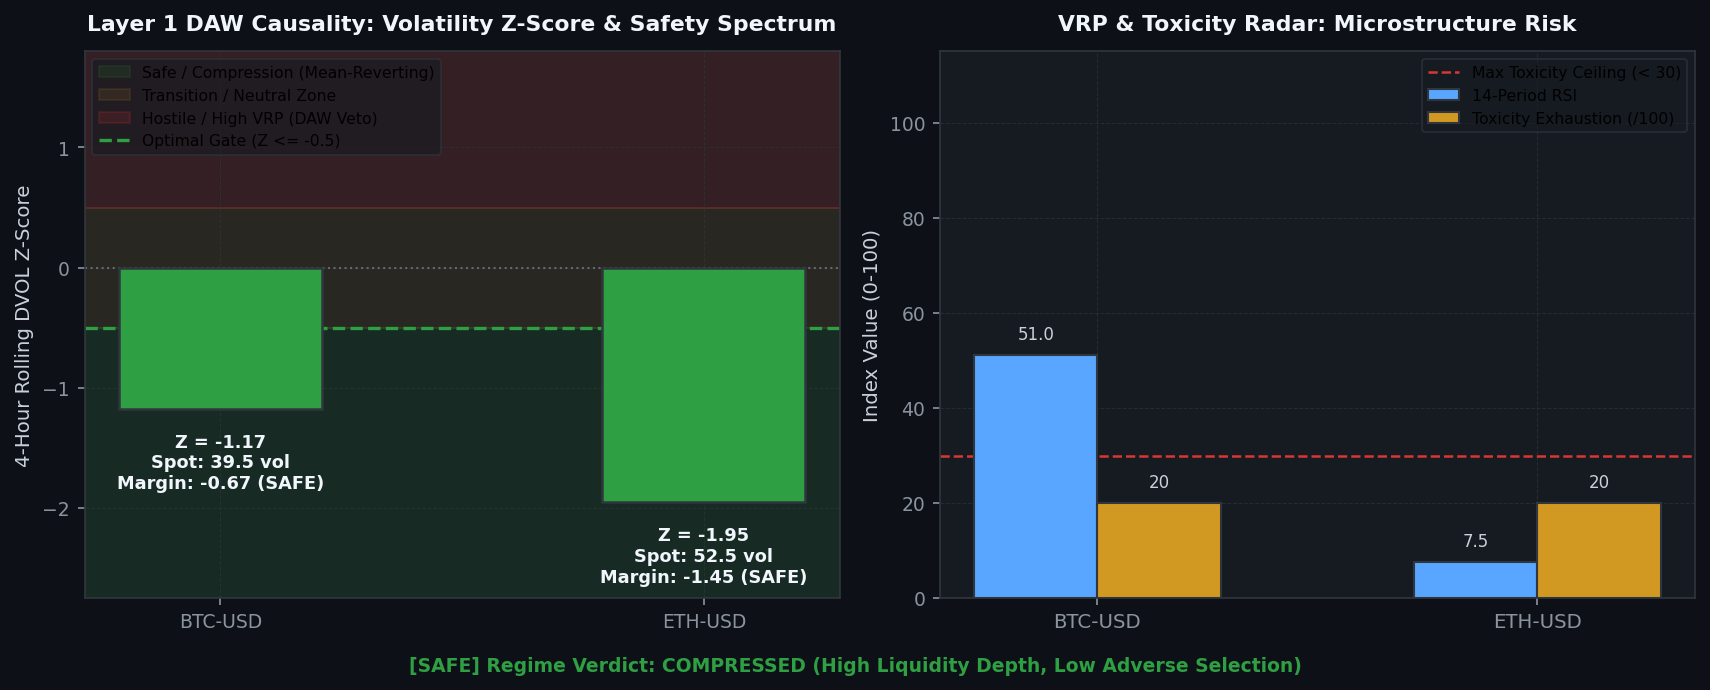
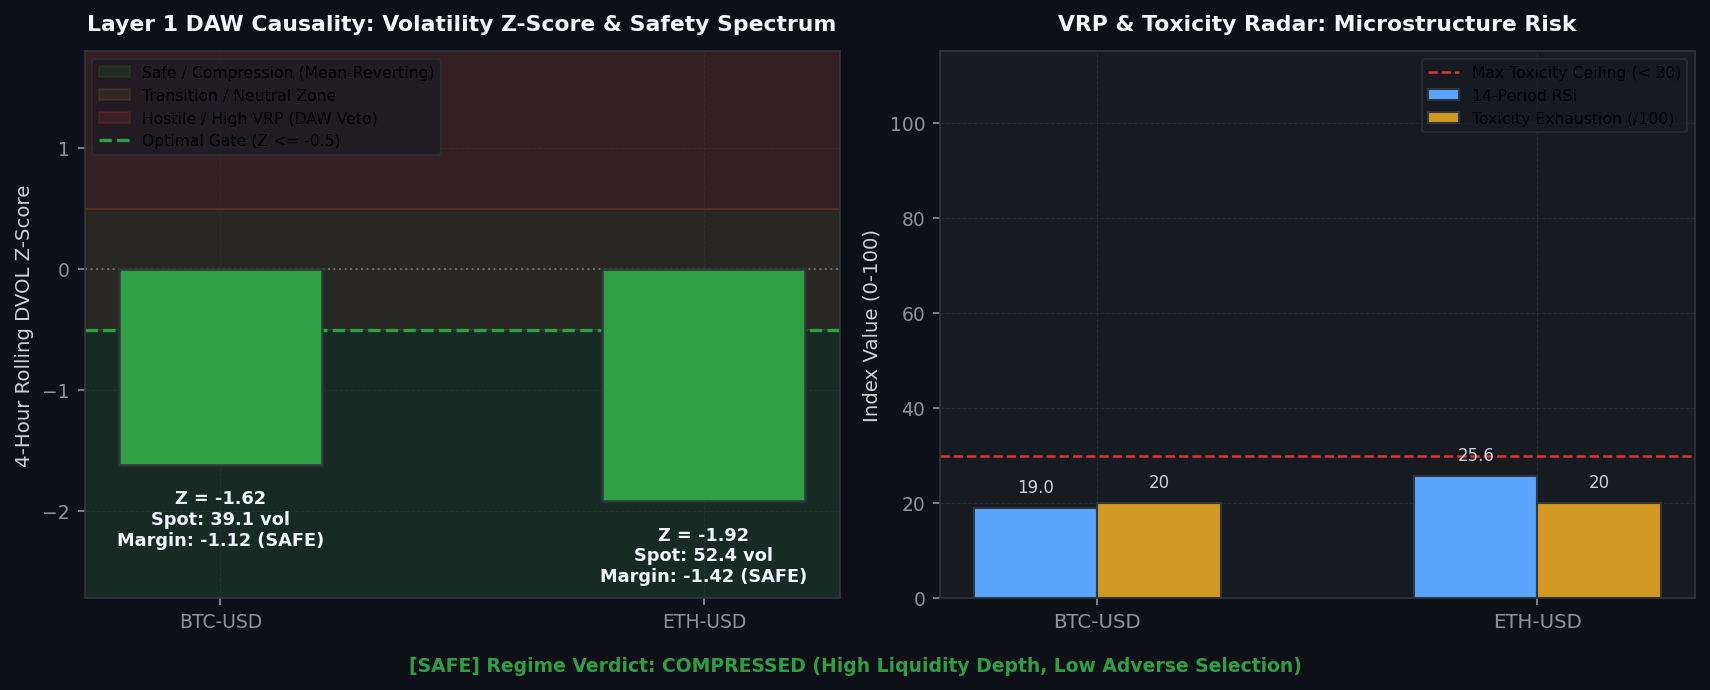
[coinbase] Hourly Status & Visual Intelligence Update: 2026-08-28 07:59:23

diff --git a/coinbase/data/hourly_status_report.md b/coinbase/data/hourly_status_report.md
@@ -3,7 +3,7 @@ layout: default
 ---
 
 # 🛡 Unified Trading System Hourly Status & Visual Intelligence
-> **Report Generated**: `2026-08-28 07:40:49 AM PDT (2026-08-28 14:40:49 UTC)`  
+> **Report Generated**: `2026-08-28 07:59:05 AM PDT (2026-08-28 14:59:05 UTC)`  
 > **System Health**: **🟡 DEGRADED / RESTRICTED** | **Win Rate**: `0.0%` | **Completed Trades**: `0`
 
 
@@ -15,13 +15,13 @@ Real-time Deribit implied volatility (DVOL) proxy tracking against mathematicall
 
 | Symbol | Proxy Oracle | Live Z-Score | Optimal Limit (YSP) | Safety Margin | Live VRP | Optimal VRP (YSP) | DAW Safety Verdict |
 | :--- | :--- | :--- | :--- | :--- | :--- | :--- | :--- |
-| `AVAX-USD` | DVOL_BTC | **-1.17** | **-0.50** | **-0.67** | **+10.02** | 5.0 | 🔴 DAW VETOED |
-| `ETH-USD` | DVOL_ETH | **-1.95** | **-0.50** | **-1.45** | **+23.09** | 5.0 | 🔴 DAW VETOED |
-| `ADA-USD` | DVOL_BTC | **-1.17** | **-0.50** | **-0.67** | **+10.11** | 5.0 | 🔴 DAW VETOED |
-| `DOGE-USD` | DVOL_BTC | **-1.17** | **-0.50** | **-0.67** | **+10.02** | 5.0 | 🔴 DAW VETOED |
-| `BTC-USD` | DVOL_BTC | **-1.17** | **-0.50** | **-0.67** | **+9.81** | 5.0 | 🔴 DAW VETOED |
-| `LINK-USD` | DVOL_BTC | **-1.17** | **-0.50** | **-0.67** | **+9.81** | 5.0 | 🔴 DAW VETOED |
-| `SOL-USD` | DVOL_BTC | **-1.17** | **-0.50** | **-0.67** | **+9.81** | 5.0 | 🔴 DAW VETOED |
+| `AVAX-USD` | DVOL_BTC | **-1.62** | **-0.50** | **-1.12** | **+9.99** | 5.0 | 🔴 DAW VETOED |
+| `ETH-USD` | DVOL_ETH | **-1.94** | **-0.50** | **-1.44** | **+22.85** | 5.0 | 🔴 DAW VETOED |
+| `ADA-USD` | DVOL_BTC | **-1.62** | **-0.50** | **-1.12** | **+9.52** | 5.0 | 🔴 DAW VETOED |
+| `DOGE-USD` | DVOL_BTC | **-1.62** | **-0.50** | **-1.12** | **+9.52** | 5.0 | 🔴 DAW VETOED |
+| `BTC-USD` | DVOL_BTC | **-1.62** | **-0.50** | **-1.12** | **+9.71** | 5.0 | 🔴 DAW VETOED |
+| `LINK-USD` | DVOL_BTC | **-1.62** | **-0.50** | **-1.12** | **+9.52** | 5.0 | 🔴 DAW VETOED |
+| `SOL-USD` | DVOL_BTC | **-1.62** | **-0.50** | **-1.12** | **+9.71** | 5.0 | 🔴 DAW VETOED |
 
 
 
@@ -32,21 +32,21 @@ The system's Layer 1 DAW Causal Gate continuously gauges execution safety using 
   - 🟢 **Safe / Compression ($Z \le Z_{opt}$)**: Derivatives market prices low tail risk. Order books are deep, adverse selection is minimal, and TimesFM zero-shot scalps operate at peak win rates.
   - 🔴 **Hostile / Expansion ($Z > Z_{opt}$)**: Options pricing aggressive shock risk. Taker order sweeps cause adverse selection; **DAW Causality Veto is active** to preserve capital.
 ---
-## 2. 🔒 MLOps & Trading Telemetry Provenance & Utilization Certification: 🔴 CRITICAL SYNC/UTILIZATION FAILURE
+## 2. 🔒 MLOps & Trading Telemetry Provenance & Utilization Certification: 🟢 ALL SYNCED & CERTIFIED
 We hereby certify that the mission-critical algorithmic data assets uploaded by the Mac Mini MLOps node have been audited for freshness, fall within their strict operational due dates, and are actively being utilized by the live EC2 HFT Trader.
 
 | Status | Data Asset | Freshness / State | Details / Timestamp |
 | :---: | :--- | :--- | :--- |
-| ✅ | **Go-List JSON** | Fresh (21.96h old) | 08-27 09:43 |
-| ✅ | **TimesFM Forecasts** | Fresh (2.82h old) | 08-28 04:51 |
-| ❌ | **Holding Times config** | STALE! (166.6h old) | Limit 108.7h |
-| ✅ | **BTC DVOL Cache** | Fresh (0.00h old) | 08-28 07:40 |
-| ✅ | **ETH DVOL Cache** | Fresh (0.00h old) | 08-28 07:40 |
-| ✅ | **Live Trading Telemetry** | Fresh (0.00h old) | 08-28 07:41 |
+| ✅ | **Go-List JSON** | Fresh (0.01h old) | 08-28 07:58 |
+| ✅ | **TimesFM Forecasts** | Fresh (3.13h old) | 08-28 04:51 |
+| ✅ | **Holding Times config** | Fresh (0.01h old) | 08-28 07:58 |
+| ✅ | **BTC DVOL Cache** | Fresh (0.00h old) | 08-28 07:59 |
+| ✅ | **ETH DVOL Cache** | Fresh (0.01h old) | 08-28 07:58 |
+| ✅ | **Live Trading Telemetry** | Fresh (0.01h old) | 08-28 07:58 |
 
 <br>
 
-> **Utilization Certification**: ✅ **CERTIFIED.** The Guardian Watchdog is ONLINE and EC2 traders are actively querying the freshest MLOps data artifacts (Found 1628 recent read events).
+> **Utilization Certification**: ✅ **CERTIFIED.** The Guardian Watchdog is ONLINE and EC2 traders are actively querying the freshest MLOps data artifacts (Found 1603 recent read events).
 
 
 ---
@@ -55,7 +55,7 @@ Layer-by-layer tick evaluation waterfall and asset-specific performance tracking
 
 | Funnel Filter Layer | Total Rejections | % of Rejections |
 | :--- | :--- | :--- |
-| Tier 1: Macro Volatility Tensor Gate (Omega_macro) | `18,365` | **100.0%** |
+| Tier 1: Macro Volatility Tensor Gate (Omega_macro) | `18,564` | **100.0%** |
 | Tier 2: Unified Transport & Directional Engine | `0` | **0.0%** |
 | Tier 3: Continuous Hawkes-SFGK Pricer (HAS-Pricer) | `0` | **0.0%** |
 | System: Asset Cooldown Active | `0` | **0.0%** |
@@ -69,9 +69,9 @@ Layer-by-layer tick evaluation waterfall and asset-specific performance tracking
 | Asset | Trades | Win Rate | Loss Streak | Status |
 | :--- | :--- | :--- | :--- | :--- |
 | `BTC-USD` | 1 | 0.0% | 1 | 🟢 OK |
-| `ADA-USD` | 23 | 65.2% | 0 | 🟢 OK |
-| `DOGE-USD` | 17 | 52.9% | 0 | 🟢 OK |
-| `ETH-USD` | 10 | 70.0% | 0 | 🟢 OK |
+| `ADA-USD` | 25 | 68.0% | 0 | 🟢 OK |
+| `DOGE-USD` | 19 | 57.9% | 0 | 🟢 OK |
+| `ETH-USD` | 11 | 72.7% | 0 | 🟢 OK |
 | `LINK-USD` | 18 | 66.7% | 0 | 🟢 OK |
 | `AVAX-USD` | 15 | 60.0% | 0 | 🟢 OK |
 
@@ -85,11 +85,15 @@ Live balance sheet and open maker liquidity positions from Coinbase CDP.
 | Product | Side | Limit Price | Order ID |
 | :--- | :--- | :--- | :--- |
 | `ACH-USD` | SELL | 0.005507 | `a0d2e243-42b4-4df5-bd23-118f45998df8` |
-| `USDT-USDC` | BUY | 0.9999 | `75ec716f-ae0e-4c43-904c-0f39c068bb39` |
-| `USDT-USDC` | BUY | 0.9999 | `074c2780-3489-4b03-a7fc-8811c049d288` |
-| `USDT-USDC` | BUY | 0.9999 | `f00ceb1d-7a92-47ff-9192-d7e21a058a37` |
-| `USDT-USDC` | BUY | 0.9999 | `a169c79d-f372-45d7-bd8d-666eaffe05d3` |
-| `USDT-USDC` | BUY | 0.9999 | `68b96e41-b290-422a-a315-3f5b8b13c285` |
+| `AVAX-USD` | SELL | 7.46 | `8ac2174d-d396-41e3-bbfb-e541bf26e2c6` |
+| `ADA-USD` | SELL | 0.21116 | `5e3df1fa-0ebf-4863-bf96-449d3758267b` |
+| `ETH-USD` | SELL | 2517.54 | `846e1440-e1af-468a-a6c8-71a10ee2b4c4` |
+| `LINK-USD` | SELL | 11.863 | `79a6e488-0681-4a8f-ac95-eec18023ce42` |
+| `USDT-USDC` | BUY | 0.9999 | `84f08bf1-0047-4fb6-b068-8da846800d01` |
+| `USDT-USDC` | BUY | 0.9999 | `1b56be70-01be-4015-9ee7-659d477a2a08` |
+| `USDT-USDC` | BUY | 0.9999 | `8d711d43-4d97-44c3-9bd8-ff4c0f02381b` |
+| `USDT-USDC` | BUY | 0.9999 | `40e36df8-e931-4414-84ac-1bc515615723` |
+| `USDT-USDC` | BUY | 0.9999 | `f32db3d6-994c-4e05-ad80-d2ef6dd0b2ce` |
 
 
 
@@ -97,14 +101,14 @@ Live balance sheet and open maker liquidity positions from Coinbase CDP.
 ## 4. 🤖 Foundation Model MLOps & Pipeline Orchestration
 Weekly Algorithmic Mega Cap selection, Zero-shot multi-step forward return forecasts, and VSTEF parameter grid search status.
 
-- **TimesFM Forecast DB**: 🟢 Updated 2.8h ago (2026-08-28 04:51 AM PDT)
+- **TimesFM Forecast DB**: 🟢 Updated 3.1h ago (2026-08-28 04:51 AM PDT)
 - **Last Weekly VSTEF Optimization**: `2026-08-05 09:22:38 AM PDT`
-- **Next Scheduled VSTEF Run**: `2026-08-30 07:00:00 PM PDT (Monday 02:00 UTC)` (Countdown: **59.3h (2d 11h 19m)**)
+- **Next Scheduled VSTEF Run**: `2026-08-30 07:00:00 PM PDT (Monday 02:00 UTC)` (Countdown: **59.0h (2d 11h 0m)**)
 - **Promoted Parameter Gates**: $Z_{DVOL} \le -0.5$ | Holding Horizon $= 12\text{h}$
 
 ### Algorithmic Mega Cap Selection
-- **Last Run (Confirmation)**: `2026-08-27 09:43:18 AM PDT`
-- **Next Scheduled Run**: `2026-08-30 06:00:00 PM PDT (Monday 01:00 UTC)` (Countdown: **58.3h (2d 10h 18m)**)
+- **Last Run (Confirmation)**: `2026-08-28 07:58:36 AM PDT`
+- **Next Scheduled Run**: `2026-08-30 06:00:00 PM PDT (Monday 01:00 UTC)` (Countdown: **58.0h (2d 10h 0m)**)
 - **Selected Mega Cap Universe**: `BTC, BCH, AVAX, ETH, ALGO, ADA, LTC, DOGE, AAVE, LINK, DOT, HBAR`
 
 
@@ -118,20 +122,20 @@ Visualizing the impact of the VSTEF (Volatility-Synchronized Stop-Tightening Exe
 ## 5. 🖥 Multi-Node Infrastructure & Watchdog Matrix
 ```text
 ================================================================================
-   🛡  SFGK FUNNEL GUARDIAN WATCHDOG (HFT ONLY) |  02:40:49 PM
-   CPU:  20.6%  |  MEM:   5.8% (14.5GB / 15.4GB Free)
+   🛡  SFGK FUNNEL GUARDIAN WATCHDOG (HFT ONLY) |  02:59:02 PM
+   CPU:   9.5%  |  MEM:   8.2% (14.2GB / 15.4GB Free)
 ================================================================================
 SERVICE              | PID      | STATUS          | RESTARTS | INFO
 --------------------------------------------------------------------------------
 L3 Consumer          | 2847552  | RUNNING         | -        | Continuous Websocket Feed
 MAO Daemon           | 2847688  | RUNNING         | -        | Oracle Yield Analysis
 U/U Farmer           | 2847690  | RUNNING         | -        | Volume Farmer
-Trader AVAX-USD      | 2886469  | COOL-DOWN       | 20       | Next run in 14.6s
-Trader ETH-USD       | 2886470  | COOL-DOWN       | 69       | Next run in 14.6s
-Trader ADA-USD       | 2886642  | RUNNING         | 29       | Evaluating Funnel/Polling Order
-Trader DOGE-USD      | 2886471  | COOL-DOWN       | 97       | Next run in 14.6s
-Trader BTC-USD       | 2886410  | COOL-DOWN       | 131      | Next run in 9.1s
-Trader LINK-USD      | 2886403  | COOL-DOWN       | 90       | Next run in 3.6s
+Trader AVAX-USD      | 2887719  | RUNNING         | 23       | Evaluating Funnel/Polling Order
+Trader ETH-USD       | 2901050  | RUNNING         | 98       | Evaluating Funnel/Polling Order
+Trader ADA-USD       | 2900763  | RUNNING         | 39       | Evaluating Funnel/Polling Order
+Trader DOGE-USD      | 2901148  | RUNNING         | 113      | Evaluating Funnel/Polling Order
+Trader BTC-USD       | 2901828  | COOL-DOWN       | 182      | Next run in 14.7s
+Trader LINK-USD      | 2901149  | RUNNING         | 140      | Evaluating Funnel/Polling Order
 ```
 
 ---

diff --git a/coinbase/data/visual_intelligence.md b/coinbase/data/visual_intelligence.md
@@ -4,7 +4,7 @@ title: Visual Intelligence Gallery
 ---
 
 # 📈 Visual Intelligence Gallery
-> **Generated:** `2026-08-28 07:41:06`
+> **Generated:** `2026-08-28 07:59:23`
 > **[Return to Main Status Report](./hourly_status_report.md)**
 
 This page visualizes the internal states, market profiles, and decision criteria of the active **3-Tier Fused Decision Engine** across all layers.
